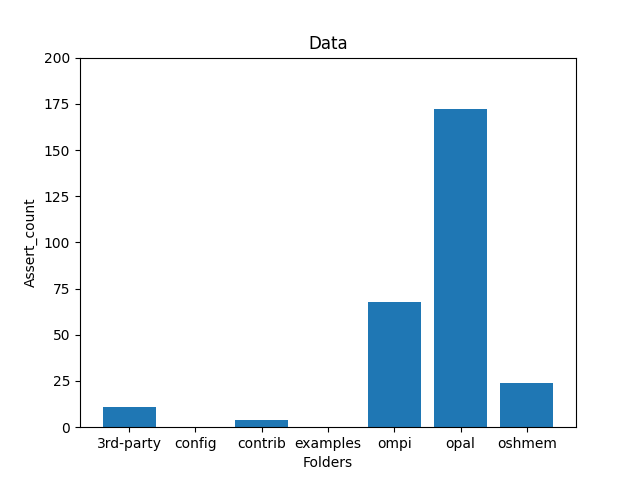
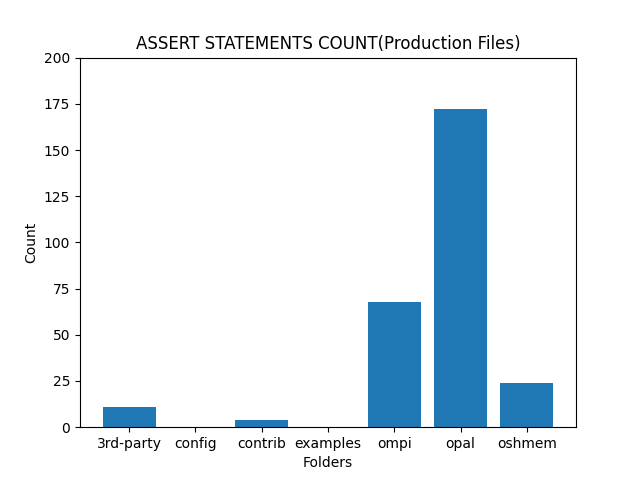
changed production files names & plots labels

Changed region(s): [[0.2188, 0.0625, 0.8125, 0.125], [0.0312, 0.4062, 0.0625, 0.5938]]

diff --git a/prod.py b/prod.py
@@ -63,7 +63,7 @@ def is_directory(dir, subdir, f):
     return list
 
 
-with open('prod_assert_count.csv', 'w', encoding='utf8', newline='') as csvfile:
+with open('prod_count.csv', 'w', encoding='utf8', newline='') as csvfile:
     for root, dirs, files in os.walk(r'clone_files'):
         print("root is..", root)
         print("dirs is...", dirs)
@@ -94,7 +94,7 @@ with open('prod_assert_count.csv', 'w', encoding='utf8', newline='') as csvfile:
 
         break
 
-data = pd.read_csv("prod_assert_count.csv")
+data = pd.read_csv("prod_count.csv")
 dirs = data["Directory"].unique()
 dirs.sort()
 print(dirs)
@@ -109,14 +109,14 @@ x = dirs
 y = count
 plt.bar(x, y)
 plt.xlabel('Folders')
-plt.ylabel('Assert_count')
-plt.title('Data')
+plt.ylabel('Count')
+plt.title('ASSERT STATEMENTS COUNT(Production Files)')
 plt.ylim(0, 200)
 
 plt.savefig("prod_assert_plot.png")
 plt.show()
 
-data = pd.read_csv("prod_assert_count.csv")
+data = pd.read_csv("prod_count.csv")
 dirs = data["Directory"].unique()
 dirs.sort()
 print(dirs)
@@ -131,8 +131,8 @@ x = dirs
 y = count
 plt.bar(x, y)
 plt.xlabel('Folders')
-plt.ylabel('Debug_count')
-plt.title('Data')
+plt.ylabel('Count')
+plt.title('DEBUG STATEMENTS COUNT(Production Files)')
 plt.ylim(0, 200)
 
 plt.savefig("prod_debug_plot.png")
